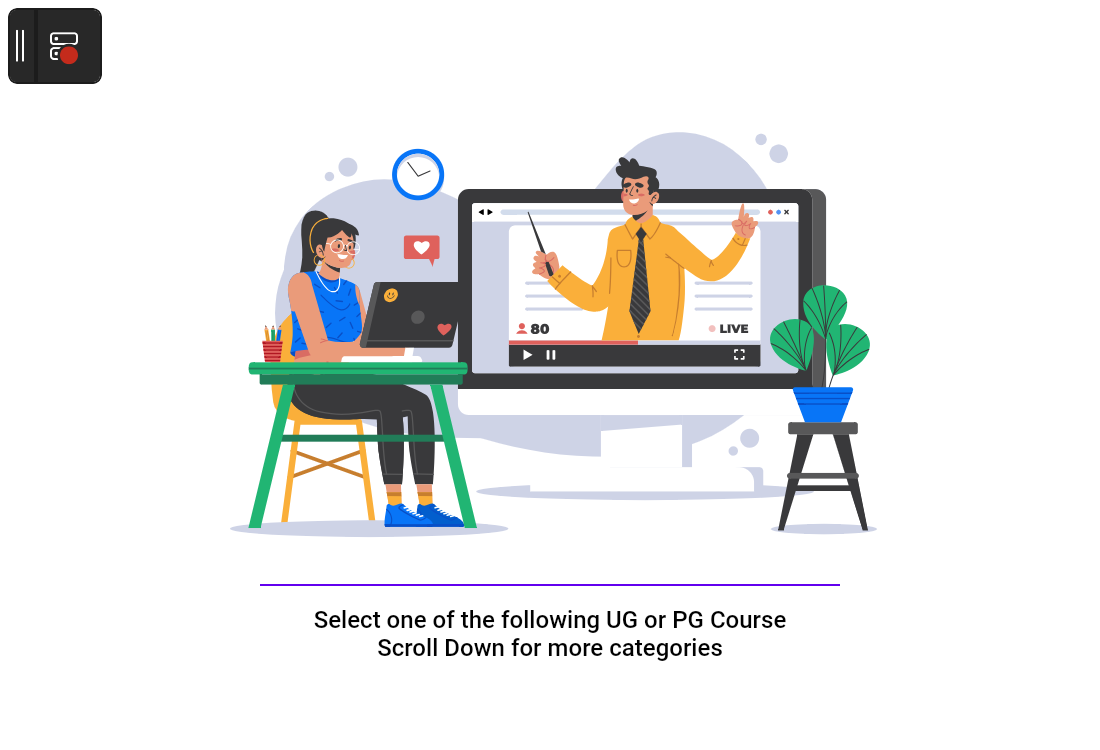
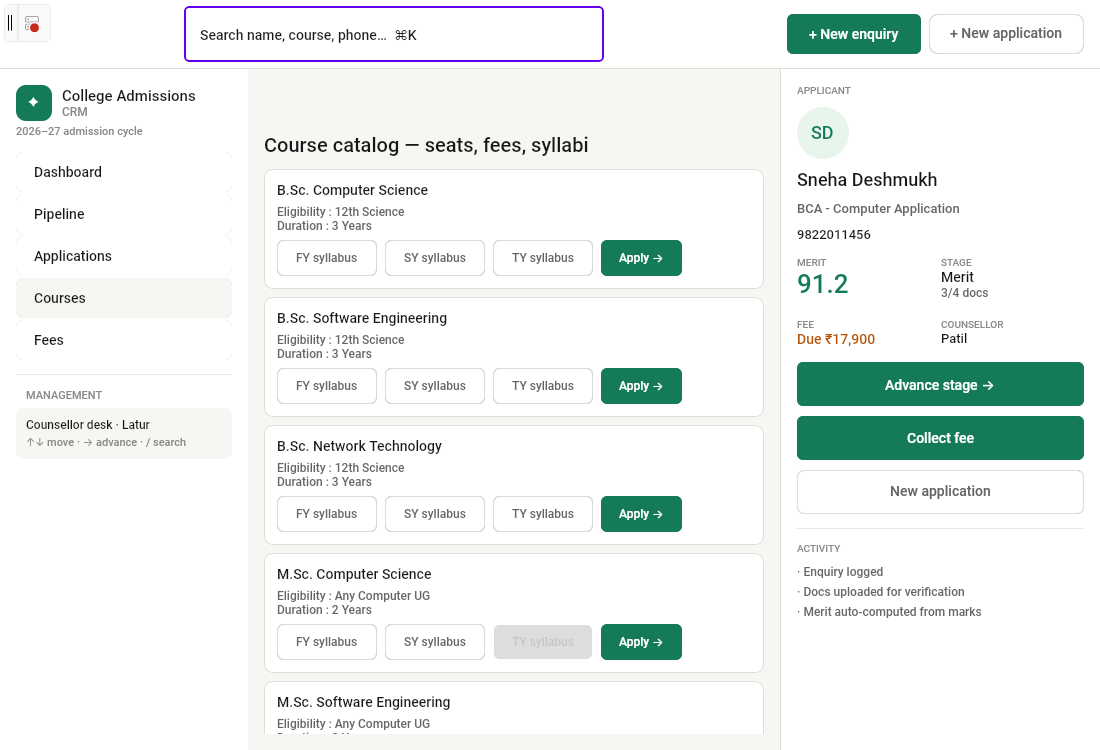
docs: refresh Uno courses shot, relative image paths, drop Pending table
- re-capture images/apps/uno/courses.png from current build (outline
  syllabus chips replaced the stale purple-button shot)
- README images: blob URLs -> relative paths so all shots render
- remove Status column from codebase table (add missing Tauri row),
  drop Pending section and 'verified no crashes' wording
- fix stale Lottie mention in Uno features

diff --git a/README.md b/README.md
@@ -2,16 +2,17 @@
 
 CollegeAdmissionManagementSystem is used by schools, colleges & institutions for admission processes and study material management. Light weight yet feature-rich, built for maximum performance and security. Flexible enough to customize on the basis of your needs so as to run a smooth and efficient system.
 
-Three codebases live in `src/`:
+Five codebases live in `src/`:
 
-| Codebase | Stack | Status | Targets today |
-|---|---|---|---|
-| `src/AvaloniaUi/` | .NET 10 + Avalonia 12 | Shipping | Android, Desktop (Linux/macOS/Windows) |
-| `src/FlutterUi/` | Flutter 3.47 + Dart 3.13 | Port (evaluation) | Linux desktop today; Android/iOS/macOS/Windows same codebase |
-| `src/PlatformUno/` | .NET 10 + Uno Platform 6 | Retained port | Android, Desktop, bare `net10.0` |
-| `src/AndroidJava/` | Java + Android SDK (archived, see `src/AndroidJava/README.md`) | Reference only | Android 4.4+ (API 19+) |
+| Codebase | Stack | Targets today |
+|---|---|---|
+| `src/AvaloniaUi/` | .NET 10 + Avalonia 12 | Android, Desktop (Linux/macOS/Windows) |
+| `src/FlutterUi/` | Flutter 3.47 + Dart 3.13 | Linux desktop today; Android/iOS/macOS/Windows same codebase |
+| `src/PlatformUno/` | .NET 10 + Uno Platform 6 | Android, Desktop, bare `net10.0` |
+| `src/TauriUi/` | Tauri 2 + React 19 + Vite | Linux/macOS Desktop (webview) |
+| `src/AndroidJava/` | Java + Android SDK (archived, see `src/AndroidJava/README.md`) | Android 4.4+ (API 19+) |
 
-![CollegeAdmissionManagementSystem CoverPage](https://github.com/AslamNazeerShaikh/CollegeAdmissionManagementSystem/blob/development/images/apps/android-java/legacy-courses-and-dialogs.jpg)
+![CollegeAdmissionManagementSystem CoverPage](images/apps/android-java/legacy-courses-and-dialogs.jpg)
 
 # To run the app
 
@@ -49,9 +50,9 @@ Three codebases live in `src/`:
 - MacBook Pro M5 Pro — macOS 26 (Desktop heads)
 - Lenovo Yoga X1 Gen 2 — Fedora 44 (Desktop heads, `dotnet` 10.0.401 verified; Flutter Linux head, Impeller, verified)
 
- ![Code Structure](https://github.com/AslamNazeerShaikh/CollegeAdmissionManagementSystem/blob/development/images/apps/android-java/code-structure.jpg)
+ ![Code Structure](images/apps/android-java/code-structure.jpg)
 
-# Screenshots (Linux, 2026-09-19 — all 4 apps running, verified no crashes)
+# Screenshots (Linux, 2026-09-19 — all 4 apps running)
 
 All shots live in `images/apps/` (per-app folders).
 
@@ -114,7 +115,7 @@ All shots live in `images/apps/` (per-app folders).
 - Avalonia.Labs.Lottie `: 12.0.2`
 - Xamarin.AndroidX.Core.SplashScreen `: 1.0.1.15`
 
-**Uno (`global.json` → Uno.Sdk `: 6.7.22`, features: Material, Mvvm, SkiaRenderer, Lottie):**
+**Uno (`global.json` → Uno.Sdk `: 6.7.22`, features: Material, Mvvm, SkiaRenderer):**
 - SkiaSharp.Views.Uno.WinUI / SkiaSharp.Skottie `: 4.152.0`
 - CommunityToolkit.Mvvm `: 8.4.2`
 - Tests: NUnit `: 4.1.0` + NUnit3TestAdapter + Microsoft.NET.Test.Sdk
@@ -131,7 +132,3 @@ All shots live in `images/apps/` (per-app folders).
 - com.orhanobut:dialogplus `: 1.11@aar`
 - com.github.barteksc:android-pdf-viewer `: 3.2.0-beta.1`
 - com.squareup.okhttp3:okhttp `: 4.9.1`
-
-# Pending (see `docs/avalonia-crm-vision.md`)
-
-Unify the 21-course catalog across .NET apps, add Avalonia tests, decide the Phase 5 registration backend, restore offline/in-app PDFs, move drafts to SQLite, add iOS/Windows store heads + CI/signing.
